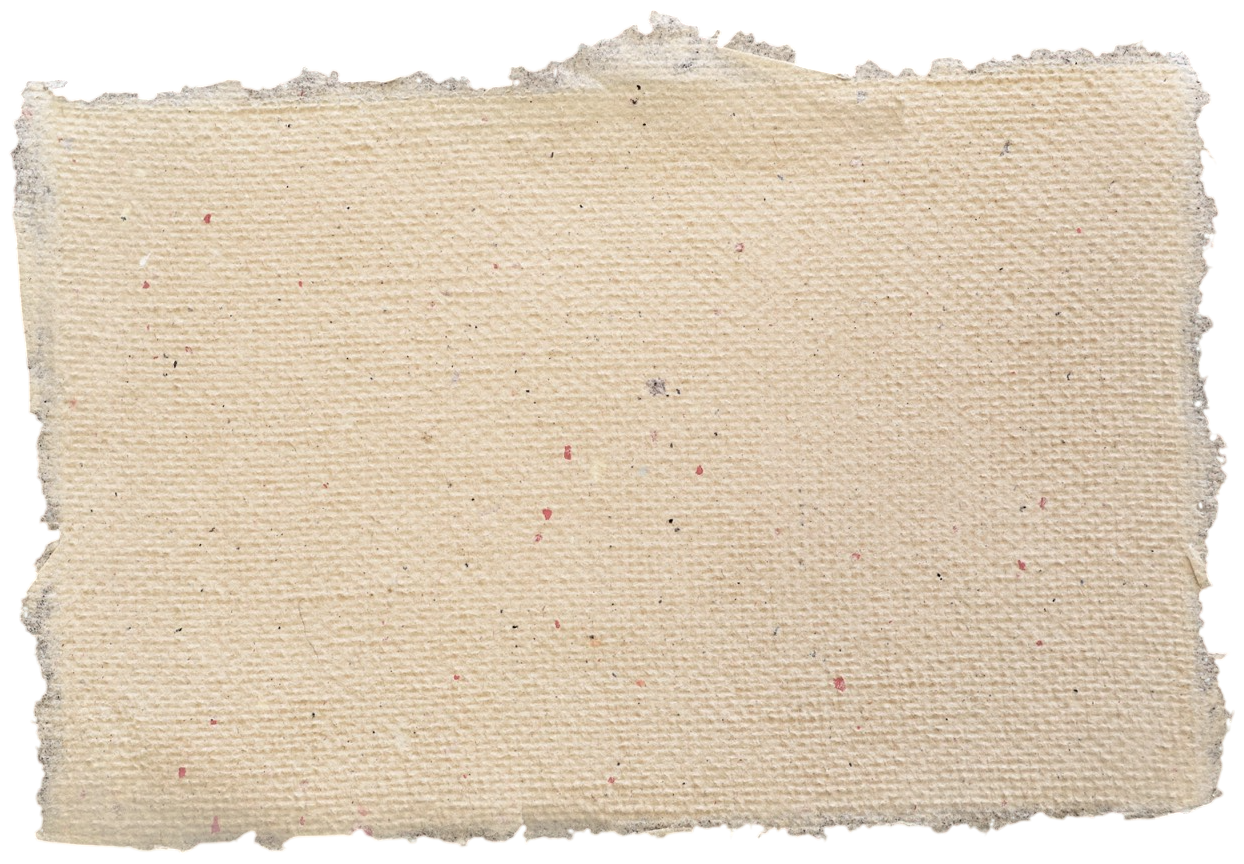
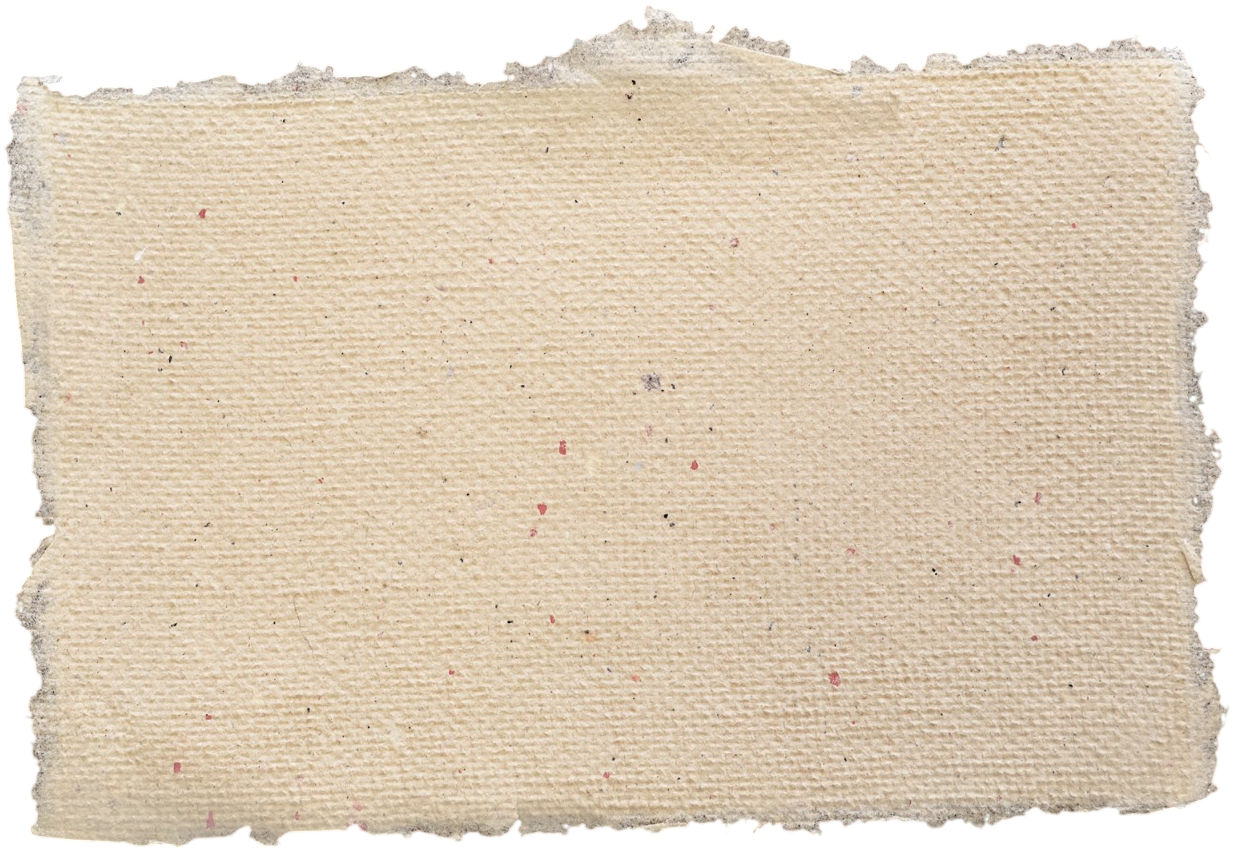
Make the leaderboard title scroll fill its frame.
Crop transparent padding and size the title by width with auto height so the asset no longer sits in an oversized box.

Changed region(s): [[0.0, 0.0, 1.0, 1.0]]

diff --git a/src/index.css b/src/index.css
@@ -270,17 +270,20 @@
   .lb-header {
     position: relative;
     display: grid;
-    flex: 0 0 200px;
+    flex: 0 0 auto;
     grid-template-columns: 1fr auto 1fr;
     align-items: center;
+    justify-items: center;
     gap: 0;
+    min-height: 0;
+    padding-block: 4px;
   }
 
   .lb-title {
     display: block;
     grid-column: 2;
-    width: 1180px;
-    height: 200px;
+    width: min(1150px, calc(100% - 48px));
+    height: auto;
     margin: 0 auto;
     object-fit: contain;
     filter: drop-shadow(0 10px 22px rgba(0, 0, 0, 0.35));
@@ -292,8 +295,8 @@
     z-index: 2;
     display: grid;
     place-items: center;
-    width: 170px;
-    height: 260px;
+    width: 150px;
+    height: 230px;
     transform: translateY(-50%);
   }
 
